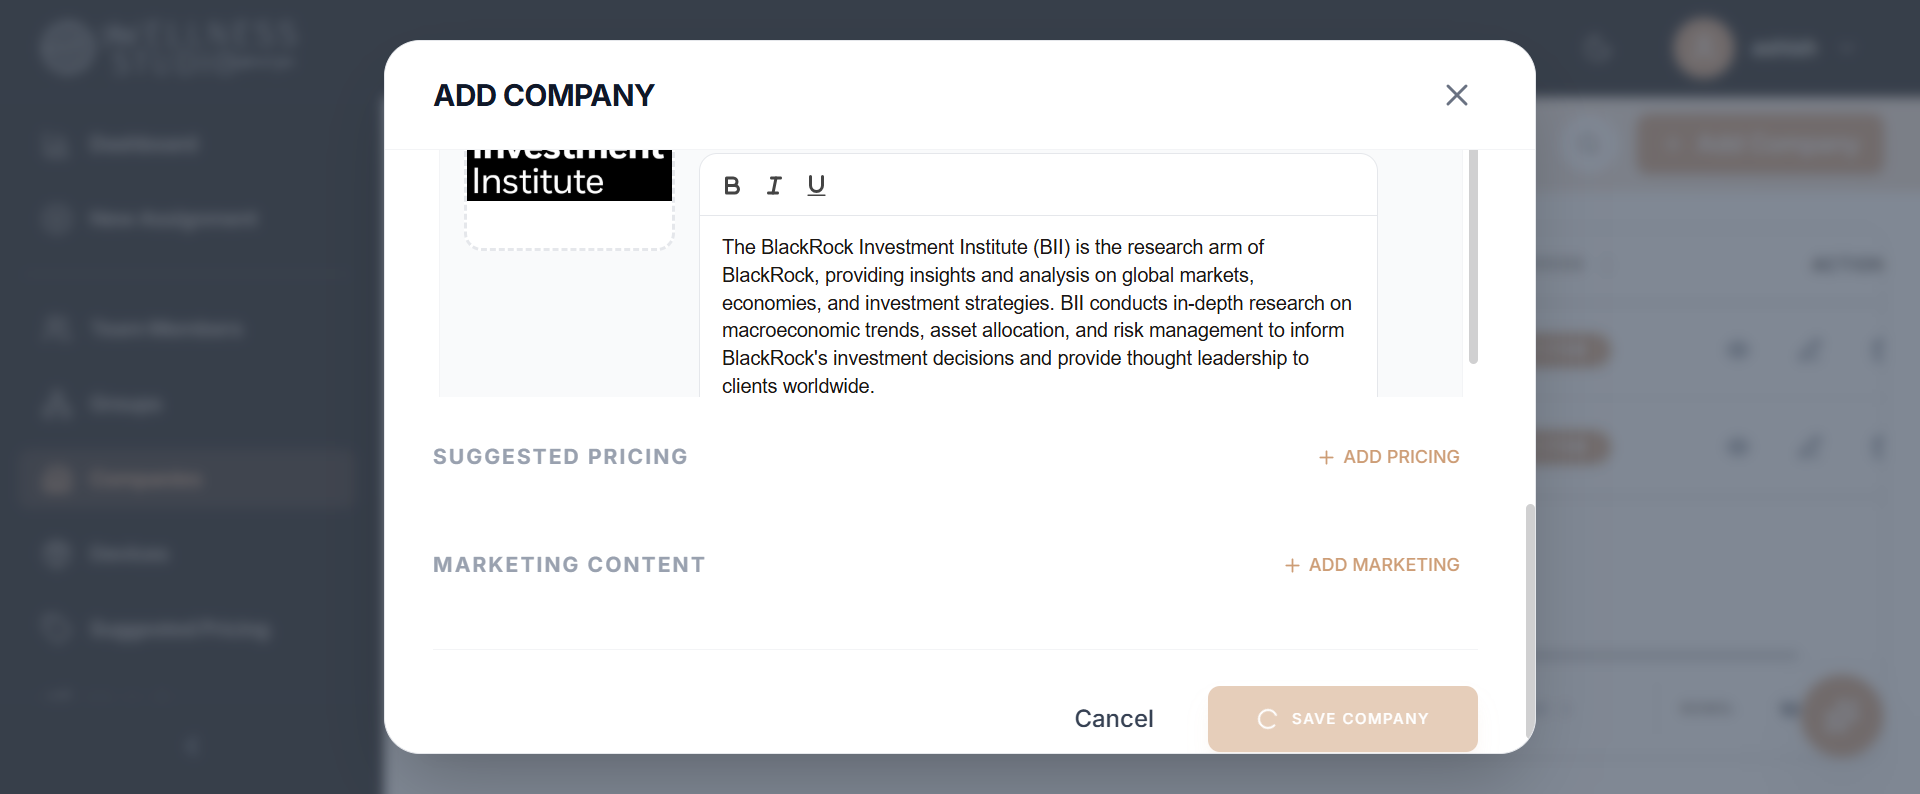
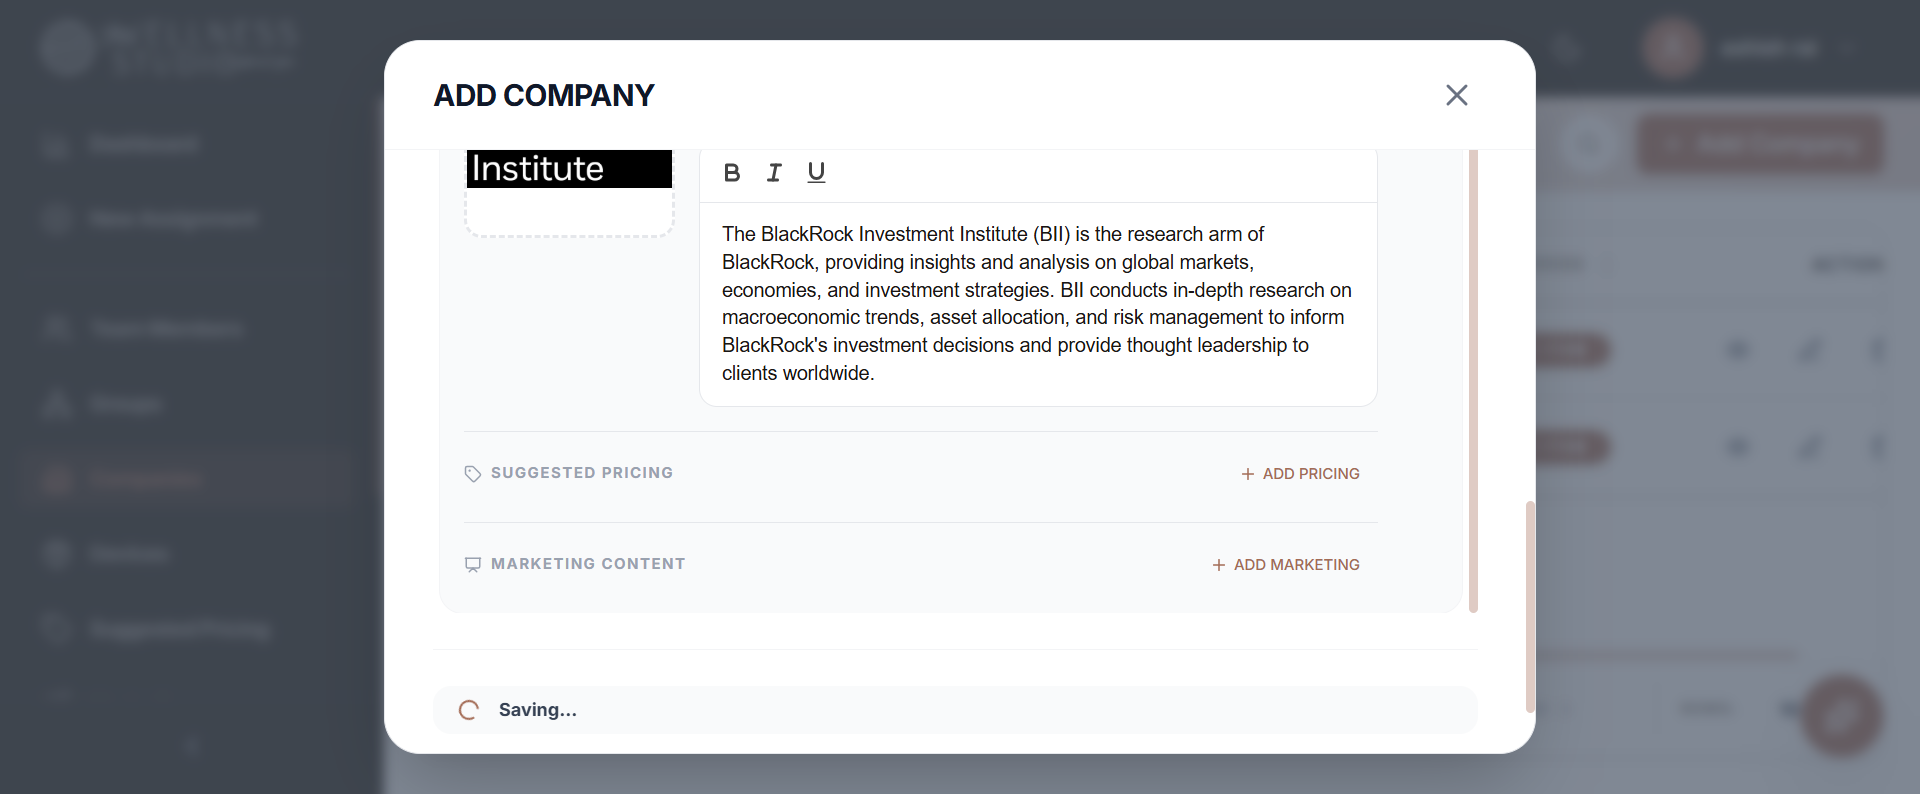
Implemented automation for the Companies and Device Module

diff --git a/src/test/java/Company/View_CompanyDetails2.java b/src/test/java/Company/View_CompanyDetails2.java
@@ -1,15 +1,21 @@
 package Company;
 
+import java.io.File;
+import java.io.IOException;
 import java.time.Duration;
 
 import org.openqa.selenium.By;
+import org.openqa.selenium.OutputType;
+import org.openqa.selenium.TakesScreenshot;
 import org.openqa.selenium.chrome.ChromeDriver;
 import org.openqa.selenium.support.ui.ExpectedConditions;
 import org.openqa.selenium.support.ui.WebDriverWait;
 
+import com.google.common.io.Files;
+
 public class View_CompanyDetails2 {
 
-	public static void main(String[] args) {
+	public static void main(String[] args) throws IOException, InterruptedException {
 		// TODO Auto-generated method stub
 		
 ChromeDriver driver = new ChromeDriver();
@@ -37,7 +43,22 @@ ChromeDriver driver = new ChromeDriver();
 		wait.until(ExpectedConditions.elementToBeClickable(By.xpath("//*[@id=\"root\"]/div[1]/div[2]/div[1]/aside/nav/div[6]/button"))).click();
 		
 		// click on view details button
-		wait.until(ExpectedConditions.elementToBeClickable(By.xpath("//*[@id=\"admin-scroll-container\"]/div/div/main/div/div/div/div[1]/div/div/div/table/tbody/tr/td[5]/div/button[1]"))).click();
+		wait.until(ExpectedConditions.elementToBeClickable(By.xpath("//*[@id=\"admin-scroll-container\"]/div/div/main/div/div/div/div[1]/div/div/div/table/tbody/tr[2]/td[5]/div/button[1]"))).click();
+		
+		Thread.sleep(4000); // Wait for 2 seconds to ensure the page is fully loaded
+		// Create screenshots folder if it doesn't exist
+        File screenshotsFolder = new File("screenshots");
+        if (!screenshotsFolder.exists()) {
+            screenshotsFolder.mkdirs();
+        }
+        
+        // Take screenshot with the file name
+        TakesScreenshot screenshot = (TakesScreenshot) driver;
+        File srcFile = screenshot.getScreenshotAs(OutputType.FILE);
+        String screenshotPath = "screenshots/View_CompanyDetails2.png";
+        Files.copy(srcFile, new File(screenshotPath));
+        
+        System.out.println("Screenshot saved at: " + screenshotPath);
 
 	}
 

diff --git a/src/test/java/Product/Delete_Product.java b/src/test/java/Product/Delete_Product.java
@@ -1,15 +1,21 @@
 package Product;
 
+import java.io.File;
+import java.io.IOException;
 import java.time.Duration;
 
 import org.openqa.selenium.By;
+import org.openqa.selenium.OutputType;
+import org.openqa.selenium.TakesScreenshot;
 import org.openqa.selenium.chrome.ChromeDriver;
 import org.openqa.selenium.support.ui.ExpectedConditions;
 import org.openqa.selenium.support.ui.WebDriverWait;
 
+import com.google.common.io.Files;
+
 public class Delete_Product {
 
-	public static void main(String[] args) {
+	public static void main(String[] args) throws IOException, InterruptedException {
 		// TODO Auto-generated method stub
 		
 ChromeDriver driver = new ChromeDriver();
@@ -41,6 +47,21 @@ ChromeDriver driver = new ChromeDriver();
 		
 		//click on confirm delete button
 		wait.until(ExpectedConditions.elementToBeClickable(By.xpath("/html/body/div[2]/div[2]/div[2]/div/div[2]/button[2]"))).click();
+		Thread.sleep(2000); // Wait for 2 seconds to ensure the deletion is processed
+		
+		// Create screenshots folder if it doesn't exist
+        File screenshotsFolder = new File("screenshots");
+        if (!screenshotsFolder.exists()) {
+            screenshotsFolder.mkdirs();
+        }
+        
+        // Take screenshot with the file name
+        TakesScreenshot screenshot = (TakesScreenshot) driver;
+        File srcFile = screenshot.getScreenshotAs(OutputType.FILE);
+        String screenshotPath = "screenshots/Delete_Product.png";
+        Files.copy(srcFile, new File(screenshotPath));
+        
+        System.out.println("Screenshot saved at: " + screenshotPath);
 		
 		
 

diff --git a/src/test/java/Product/View_Product.java b/src/test/java/Product/View_Product.java
@@ -1,15 +1,21 @@
 package Product;
 
+import java.io.File;
+import java.io.IOException;
 import java.time.Duration;
 
 import org.openqa.selenium.By;
+import org.openqa.selenium.OutputType;
+import org.openqa.selenium.TakesScreenshot;
 import org.openqa.selenium.chrome.ChromeDriver;
 import org.openqa.selenium.support.ui.ExpectedConditions;
 import org.openqa.selenium.support.ui.WebDriverWait;
 
+import com.google.common.io.Files;
+
 public class View_Product {
 
-	public static void main(String[] args) {
+	public static void main(String[] args) throws IOException {
 		// TODO Auto-generated method stub
 		
 ChromeDriver driver = new ChromeDriver();
@@ -38,6 +44,20 @@ ChromeDriver driver = new ChromeDriver();
 		
 		//click on view button
 		wait.until(ExpectedConditions.elementToBeClickable(By.xpath("//*[@id=\"admin-scroll-container\"]/div/div/main/div/div/div/div[1]/div/div/div/table/tbody/tr[1]/td[5]/div/button[1]"))).click();
+		
+		// Create screenshots folder if it doesn't exist
+        File screenshotsFolder = new File("screenshots");
+        if (!screenshotsFolder.exists()) {
+            screenshotsFolder.mkdirs();
+        }
+        
+        // Take screenshot with the file name
+        TakesScreenshot screenshot = (TakesScreenshot) driver;
+        File srcFile = screenshot.getScreenshotAs(OutputType.FILE);
+        String screenshotPath = "screenshots/View_Product.png";
+        Files.copy(srcFile, new File(screenshotPath));
+        
+        System.out.println("Screenshot saved at: " + screenshotPath);
 
 	}
 

diff --git a/src/test/java/Product/Create_Product.java b/src/test/java/Product/Create_Product.java
@@ -1,0 +1,10 @@
+package Product;
+
+public class Create_Product {
+
+	public static void main(String[] args) {
+		// TODO Auto-generated method stub
+
+	}
+
+}

diff --git a/src/test/java/Company/Create_Company1.java b/src/test/java/Company/Create_Company1.java
@@ -80,7 +80,7 @@ ChromeDriver driver = new ChromeDriver();
 				By.xpath("/html/body/div[2]/div[2]/div[2]/form/div[2]/div[2]/div/div/div[2]/div[2]/div[2]/div/div[2]/div[1]"))).sendKeys("Claude is an AI assistant developed by Anthropic, designed to be helpful, harmless, and honest. It is built using Anthropic's research in AI safety and is intended to assist users with a wide range of tasks while adhering to ethical guidelines.");
 		
 		// click on save button
-		wait.until(ExpectedConditions.elementToBeClickable(By.xpath("/html/body/div[2]/div[2]/div[2]/form/div[5]/div/button[2]"))).click();
+		wait.until(ExpectedConditions.elementToBeClickable(By.xpath("/html/body/div[2]/div[2]/div[2]/form/div[3]/div/button[2]"))).click();
 		
 		Thread.sleep(3000);  // Wait for 2 seconds to ensure the page has loaded before taking the screenshot
 		

diff --git a/src/test/java/Company/Create_Company2.java b/src/test/java/Company/Create_Company2.java
@@ -81,7 +81,7 @@ ChromeDriver driver = new ChromeDriver();
 
 		
 		// click on save button
-		wait.until(ExpectedConditions.elementToBeClickable(By.xpath("/html/body/div[2]/div[2]/div[2]/form/div[5]/div/button[2]"))).click();
+		wait.until(ExpectedConditions.elementToBeClickable(By.xpath("/html/body/div[2]/div[2]/div[2]/form/div[3]/div/button[2]"))).click();
 		
 		// // Create screenshots folder if it doesn't exist
         File screenshotsFolder = new File("screenshots");

diff --git a/src/test/java/Company/Create_Company3.java b/src/test/java/Company/Create_Company3.java
@@ -99,7 +99,7 @@ ChromeDriver driver = new ChromeDriver();
 
 		
 		// click on save button
-		wait.until(ExpectedConditions.elementToBeClickable(By.xpath("/html/body/div[2]/div[2]/div[2]/form/div[5]/div/button[2]"))).click();
+		wait.until(ExpectedConditions.elementToBeClickable(By.xpath("/html/body/div[2]/div[2]/div[2]/form/div[3]/div/button[2]"))).click();
 		
 		 // Create screenshots folder if it doesn't exist
         File screenshotsFolder = new File("screenshots");